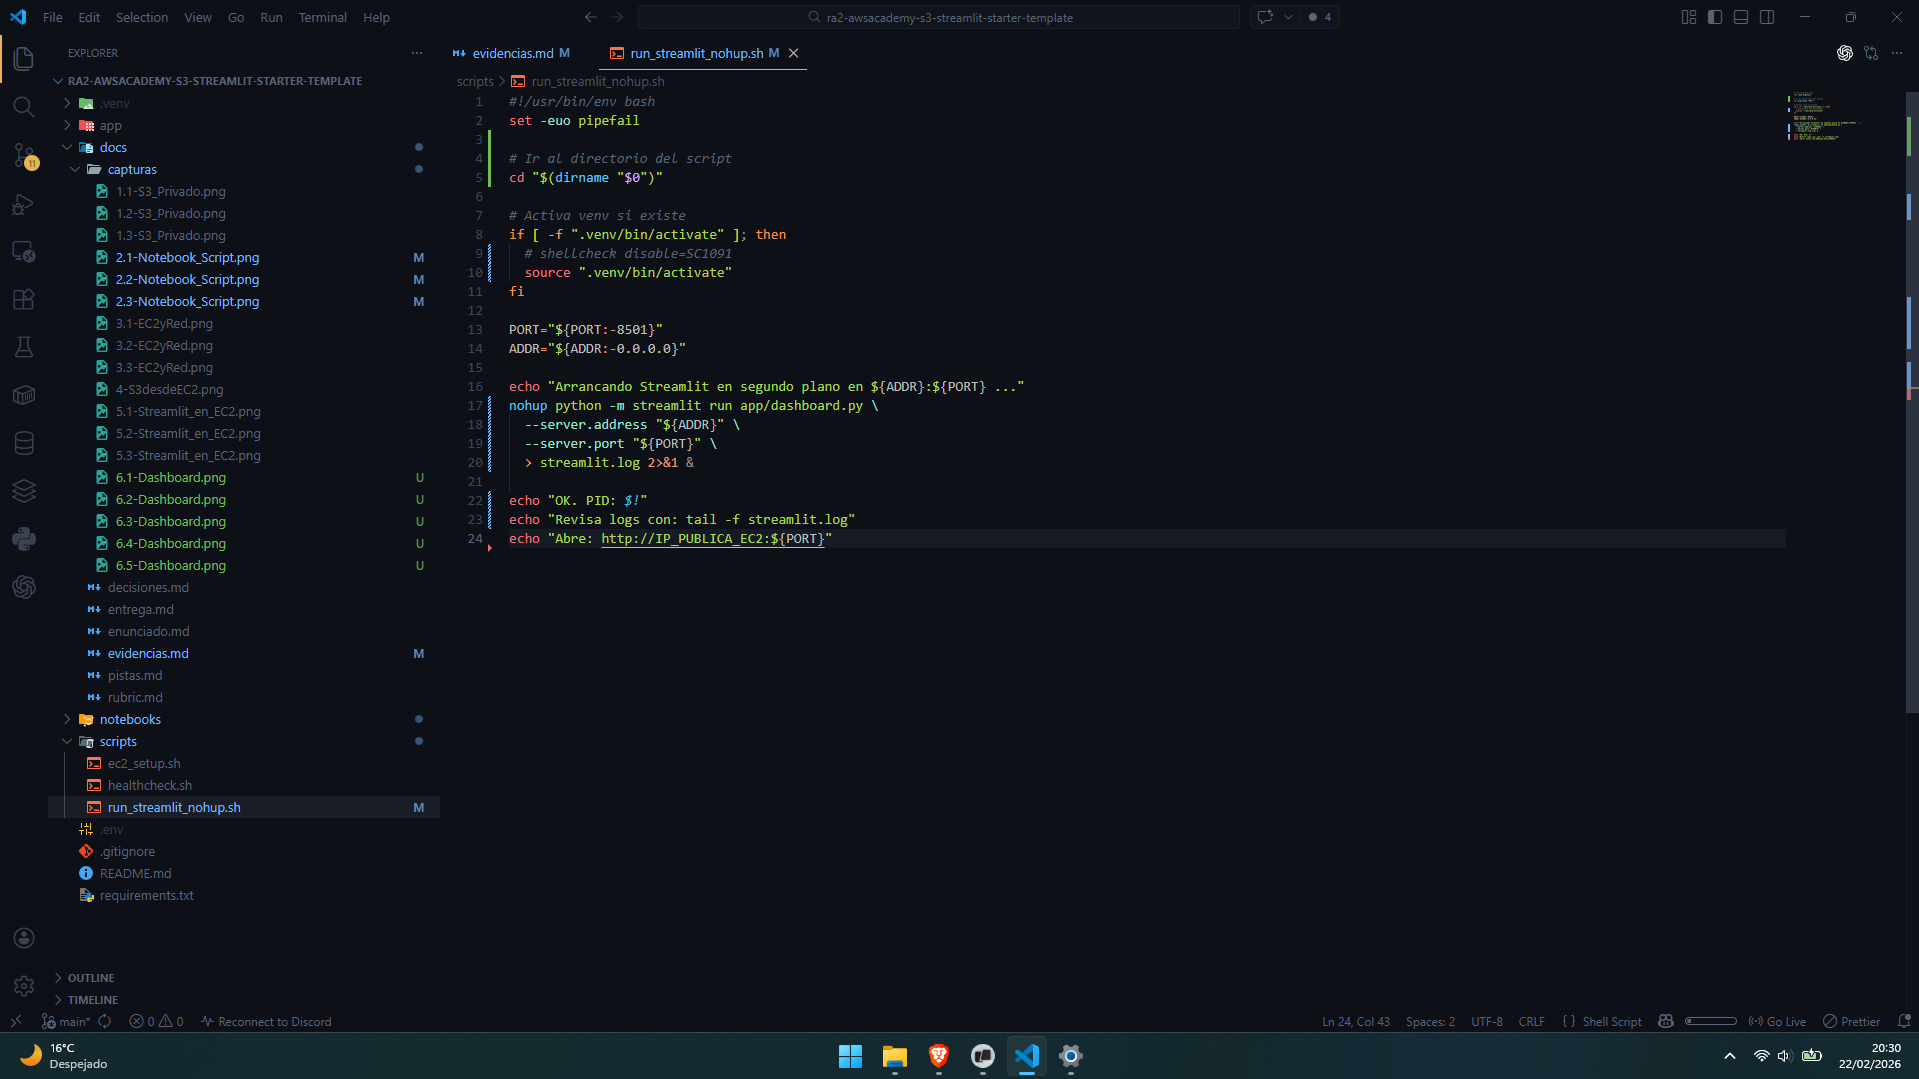
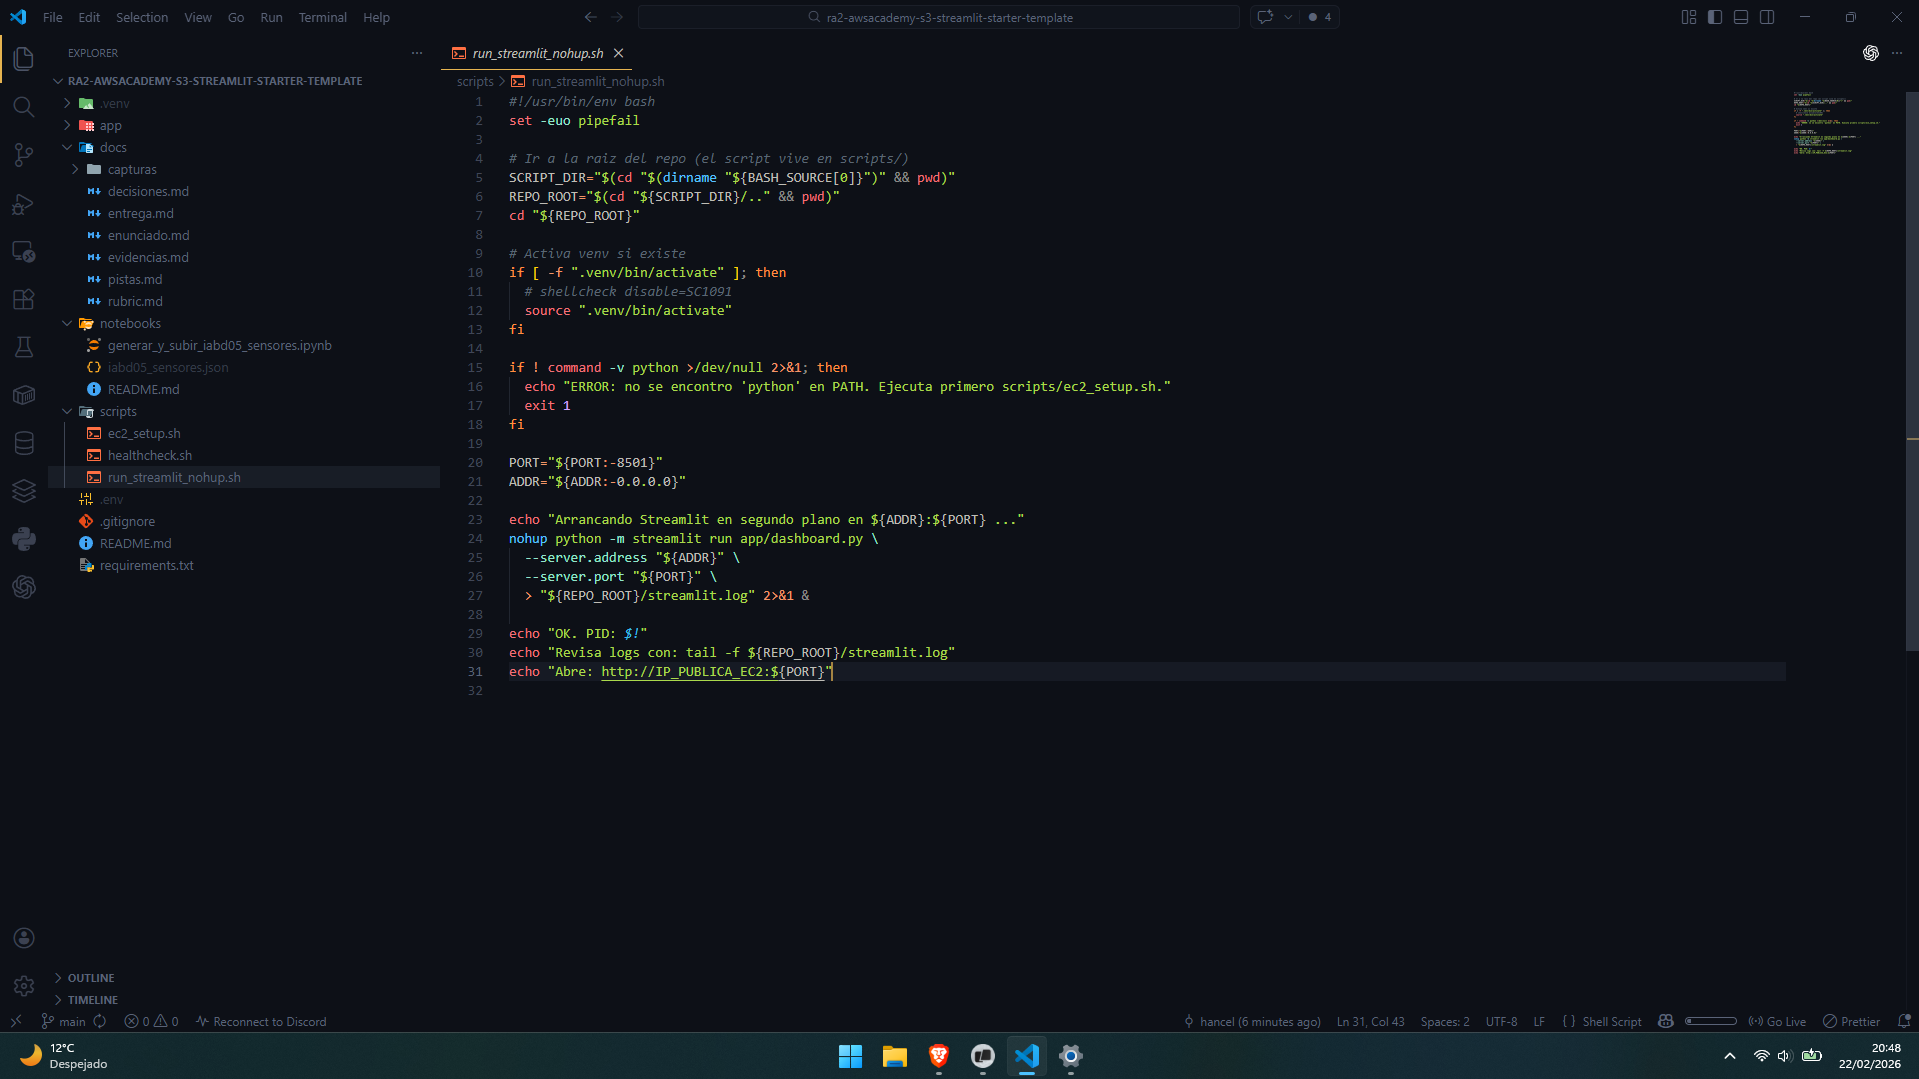
cambios finales

diff --git a/README.md b/README.md
@@ -1,88 +1,115 @@
-# RA2 SBD · Dashboard IoT en Streamlit con datos en S3 (AWS Academy) — Plantilla Profesor
+# Proyecto RA2: Dashboard IoT con Streamlit y S3
 
-Este repositorio es la **plantilla oficial** para la *Tarea Evaluable RA2* del curso de especialización (Sistemas de Big Data) en entorno **AWS Academy Lab**.
+## Descripción
+Este proyecto implementa un flujo completo de datos IoT en AWS:
 
-## Objetivo
-Implementar un **pipeline sencillo**:
-1. Generar/obtener datos IoT (JSON) y **subirlos a un bucket S3 privado**.
-2. Desplegar una app **Streamlit** en una **EC2 Ubuntu 24.04** que **lee el JSON desde S3**.
-3. Construir un dashboard con:
-   - filtros (estado del sensor + rango de temperatura),
-   - tabla filtrada,
-   - gráficas Plotly,
-   - mapa (lat/lon),
-   - despliegue accesible por `http://IP_PUBLICA:8501`.
+1. Generación/ingesta de datos en formato JSON.
+2. Almacenamiento en un bucket S3 privado.
+3. Lectura desde una aplicación Streamlit.
+4. Visualización y filtrado de datos en un dashboard web.
+5. Despliegue en una instancia EC2 accesible por navegador.
 
-> El enunciado completo, evidencias y rúbrica están en `docs/`.
+La app está pensada para el entorno de AWS Academy, usando buenas prácticas de seguridad (sin claves en el repositorio).
 
-> Pistas opcionales: ver `docs/pistas.md`.
-
-
----
-
-## Flujo de trabajo (alumnado)
-1. Haced **Fork** de este repo a vuestra cuenta de GitHub.
-2. Trabajad solo en vuestro fork (commits frecuentes).
-3. Entrega: **enlace al repo** + **tag** `v1.0-entrega` (ver `docs/entrega.md`).
-
----
-
-## Quickstart (local, opcional)
-> Puede ejecutarse en local si tenéis credenciales AWS configuradas (o si usáis un JSON local de prueba).
-
-```bash
-python3 -m venv .venv
-source .venv/bin/activate
-pip install -r requirements.txt
-cp .env.example .env  # opcional (no se sube)
-streamlit run app/dashboard.py
+## Estructura de carpetas
+```text
+  ra2-awsacademy-s3-streamlit-starter-template/
+  │
+  ├── app/
+  │   ├── dashboard.py
+  │   └── services/
+  │       ├── preprocessing.py
+  │       └── s3_loader.py
+  │
+  ├── docs/
+  │   ├── decisiones.md
+  │   ├── entrega.md
+  │   ├── enunciado.md
+  │   ├── evidencias.md
+  │   └── capturas/
+  │
+  ├── notebooks/
+  │   └── generar_y_subir_iabd05_sensores.ipynb
+  │
+  ├── scripts/
+  │   ├── healthcheck.sh
+  │   ├── ec2_setup.sh
+  │   └── run_streamlit_nohup.sh
+  │
+  ├── .gitignore
+  └── README.md
 ```
 
----
+## Características del dashboard
+El dashboard (`app/dashboard.py`) incluye:
 
-## Quickstart (EC2 Ubuntu 24.04 en AWS Academy)
-En la EC2:
+- Carga de datos JSON desde S3 (bucket y key configurables).
+- Normalización y preprocesado de columnas.
+- Filtro por estado del sensor (`OK`, `WARN`, `FAIL` o todos).
+- Filtro por rango de temperatura.
+- Tabla de registros filtrados.
+- Gráfica de línea: temperatura en el tiempo por sensor.
+- Gráfica de barras: CO2 agregado por sensor.
+- Mapa de sensores con `lat/lon`.
+- Caché de datos y botón de recarga.
+
+## Funcionamiento de los scripts
+
+### `scripts/ec2_setup.sh`
+Prepara el entorno en EC2:
+
+1. Instala dependencias del sistema (`python3-pip`, `python3-venv`, `git`).
+2. Crea entorno virtual `.venv`.
+3. Instala dependencias de Python desde `requirements.txt`.
+4. Verifica que Streamlit está instalado.
+
+### `scripts/run_streamlit_nohup.sh`
+Arranca el dashboard en segundo plano:
+
+1. Se posiciona en la raíz del repo.
+2. Activa `.venv` si existe.
+3. Ejecuta Streamlit con `nohup` para que siga corriendo al cerrar SSH.
+4. Expone por defecto `0.0.0.0:8501`.
+5. Guarda logs en `streamlit.log`.
+
+Variables opcionales:
+
+- `PORT` (por defecto `8501`)
+- `ADDR` (por defecto `0.0.0.0`)
+
+## Despliegue en EC2 por SSH (AWS)
+El despliegue se hace conectando por SSH a la instancia EC2.
+
+Ejemplo de flujo:
 
 ```bash
-sudo apt update
-sudo apt install -y git
-git clone <URL_DE_VUESTRO_FORK>
+ssh -i <tu-clave.pem> ubuntu@<IP_PUBLICA_EC2>
+git clone <url-del-repo>
 cd <repo>
+
+chmod +x scripts/ec2_setup.sh
+chmod +x scripts/run_streamlit_nohup.sh
+
 bash scripts/ec2_setup.sh
+
+# Definir configuracion S3
+export AWS_REGION=<region>
+export S3_BUCKET=<bucket>
+export S3_KEY=data/sensores/iabd05_sensores.json
+
+# Arrancar app
 bash scripts/run_streamlit_nohup.sh
 ```
 
-Abrir:
-- `http://IP_PUBLICA_EC2:8501`
+Luego se accede desde el navegador:
 
----
-
-## Configuración por variables de entorno
-La app usa estas variables (en EC2 es recomendable exportarlas en `~/.bashrc` o en un `.env` **no versionado**):
-
-- `AWS_REGION` (ej. `us-west-1`)
-- `S3_BUCKET` (nombre del bucket)
-- `S3_KEY` (ruta del objeto, ej. `data/sensores/iabdXX_sensores.json`)
-
-Ejemplo:
-
-```bash
-export AWS_REGION=us-west-1
-export S3_BUCKET=mi-bucket-privado
-export S3_KEY=data/sensores/iabd01_sensores.json
+```text
+http://IP_PUBLICA_EC2:8501
 ```
 
-**Importante:** No subáis claves (`AWS_ACCESS_KEY_ID`, `AWS_SECRET_ACCESS_KEY`, `.pem`, etc.) al repo.
+## Seguridad y credenciales
+- No subir claves AWS, tokens, `.pem` ni `.env` con secretos.
+- Acceso recomendado a S3: `aws configure` en EC2 (sin versionar credenciales).
 
----
-
-## Estructura del repo
-- `app/` → Streamlit + servicios de carga/procesado
-- `scripts/` → setup EC2 y arranque en segundo plano
-- `docs/` → enunciado, entrega, evidencias, rúbrica
-- `notebooks/` → aquí irá vuestro notebook/script de subida a S3
-
----
-
-## Licencia
-Uso docente.
+## Autor
+- [Hancel Fernando Abrines Vasallo](https://github.com/daydroidmuchiri)

diff --git a/docs/evidencias.md b/docs/evidencias.md
@@ -6,7 +6,7 @@
 ## 0) Identificación
 - Alumno/a: Hancel Fernando
 - Grupo: IABD
-- Variante usada (A/B): A
+- Variante usada (A/B): B
 - Región AWS: us-east-1
 - Bucket S3: s3-streamlit-ra2
 
@@ -99,11 +99,14 @@ Incluye capturas donde se vea:
 ![alt text](capturas/7.1-Despligue.png)
 
 - [x] Captura del log (`tail -n 50 streamlit.log` o similar)
-- [x] URL final:
+![alt text](capturas/7.2-Despligue.png)
 
-**URL:** `http://IP_PUBLICA_EC2:8501`
+- [x] URL final: 
+
+**URL:** `http://98.93.40.17:8501/`
 
 - [x] Captura en navegador accediendo a la URL
+![alt text](capturas/7.3-Despligue.png)
 
 ---
 
